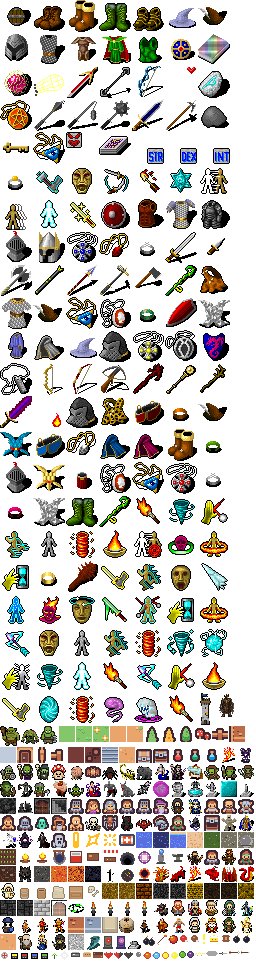
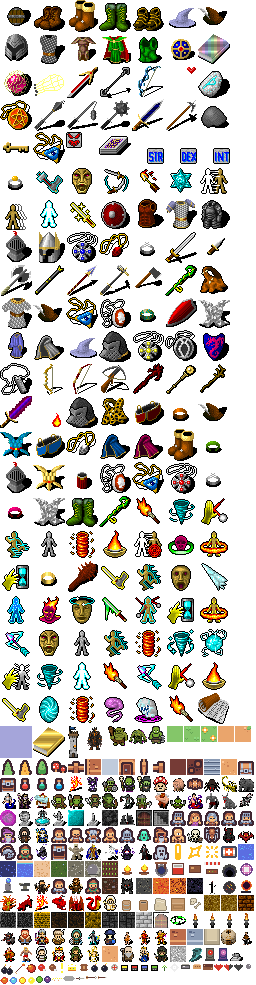
Микроменю в духе WoW: док-панель справа внизу со слотами-иконками
- Тёмная подложка с рамкой, 8 слотов 18×18: сумка/герой/умения/журнал/
  карта/народы/бестиарий/летопись; иконки вписаны масштабом, хоткей
  жёлтым в углу слота с тёмной подложкой — ничего не наезжает
- Старая текстовая полоска клавиш удалена

diff --git a/client/ui/hud.js b/client/ui/hud.js
@@ -111,22 +111,40 @@ export class Hud {
     ctx.fillStyle = '#fbf236';
     ctx.fillText(String(you.coins), 18, VIEW_H - 16);
 
-    // панель окон: какие клавиши что открывают (нижняя кромка, по центру)
+    // микроменю в духе WoW: тёмный док справа внизу, слоты-иконки,
+    // буква клавиши в углу слота (ничего не наезжает на соседей)
     {
-      const KEYS = [['Tab', 'сумка'], ['C', 'герой'], ['K', 'умения'], ['J', 'журнал'],
-        ['M', 'карта'], ['P', 'народы'], ['B', 'бестиарий'], ['L', 'летопись']];
-      let kx = VIEW_W / 2 - 126;
-      const ky = VIEW_H - 8;
-      for (const [key, label] of KEYS) {
-        const kw = key.length * 5 + 3;
-        ctx.fillStyle = 'rgba(20,18,28,.75)';
-        ctx.fillRect(kx - 1, ky - 1, kw, 8);
+      const MM = [
+        ['Tab', 'obj_sack'], ['C', 'item_helmet'], ['K', 'item_tome_flame'], ['J', 'ui_mm_scroll'],
+        ['M', 'ui_mm_map'], ['P', 'item_shield_wood'], ['B', 'enemy_wolf'], ['L', 'ui_mm_book'],
+      ];
+      const bw = 18, gap = 2, total = MM.length * (bw + gap) - gap;
+      let bx = VIEW_W - total - 5;
+      const by = VIEW_H - 23;
+      // подложка дока
+      ctx.fillStyle = 'rgba(10,9,16,.85)';
+      ctx.fillRect(bx - 3, by - 3, total + 6, bw + 6);
+      ctx.strokeStyle = '#4a4460';
+      ctx.strokeRect(bx - 2.5, by - 2.5, total + 5, bw + 5);
+      ctx.font = '7px monospace';
+      for (const [key, icon] of MM) {
+        // слот
+        ctx.fillStyle = '#1c1a24';
+        ctx.fillRect(bx, by, bw, bw);
+        ctx.strokeStyle = '#5b556e';
+        ctx.strokeRect(bx + 0.5, by + 0.5, bw - 1, bw - 1);
+        const spr = this.atlas.map[icon];
+        const sc = spr ? Math.min(1, 14 / Math.max(spr.w, spr.h)) : 1;
+        this.atlas.draw(ctx, icon, bx + bw / 2, by + bw / 2, { scale: sc });
+        // хоткей в верхнем правом углу слота, с тенью — как в WoW
+        const kw = key.length * 4;
+        ctx.fillStyle = 'rgba(0,0,0,.75)';
+        ctx.fillRect(bx + bw - kw - 2, by + 1, kw + 1, 7);
         ctx.fillStyle = '#fbf236';
-        ctx.fillText(key, kx + 1, ky);
-        ctx.fillStyle = '#847e87';
-        ctx.fillText(label, kx + kw + 2, ky);
-        kx += kw + 2 + label.length * 5 + 8;
+        ctx.fillText(key, bx + bw - kw - 1, by + 2);
+        bx += bw + gap;
       }
+      ctx.font = '8px monospace';
     }
 
     // время суток и сезон